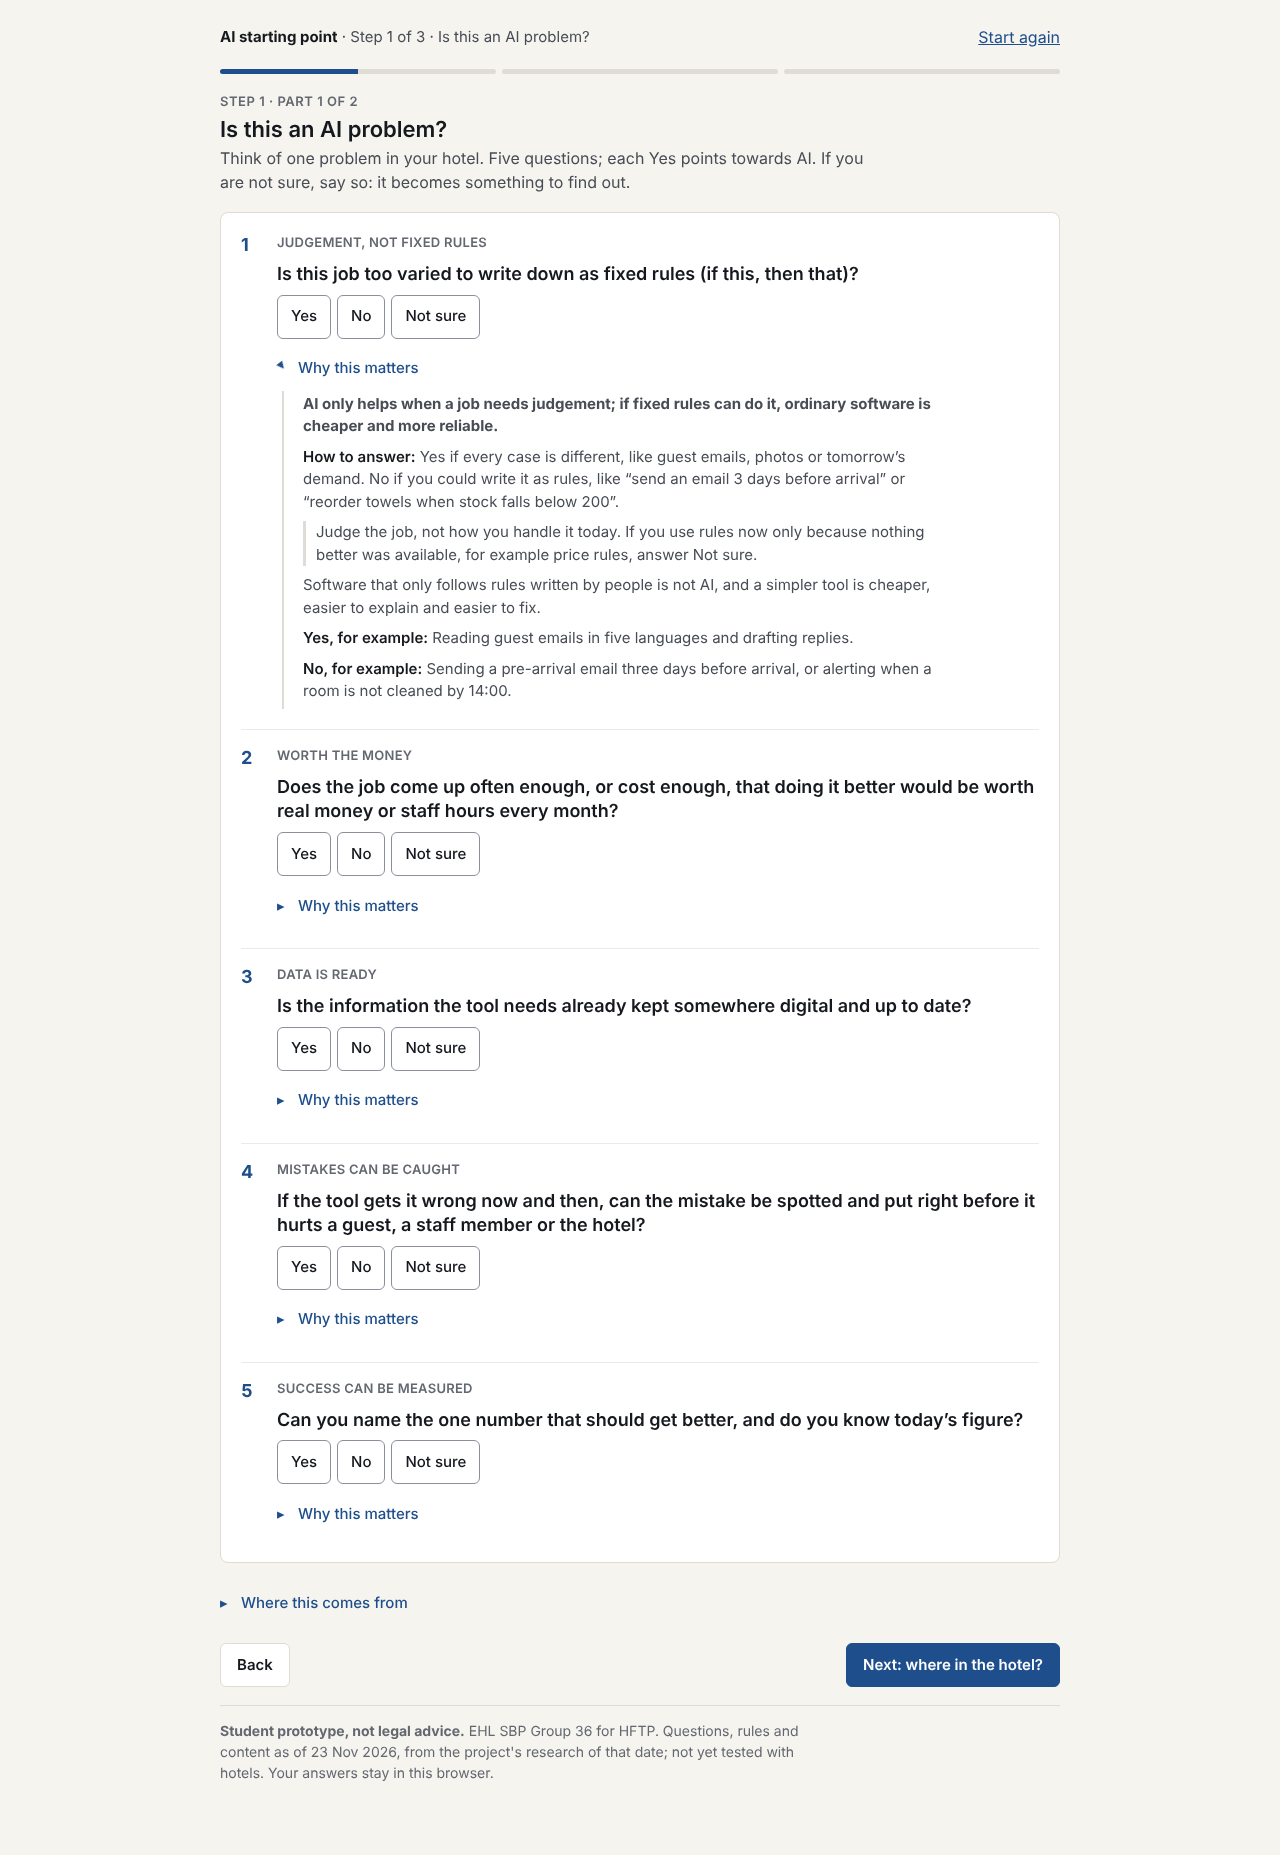
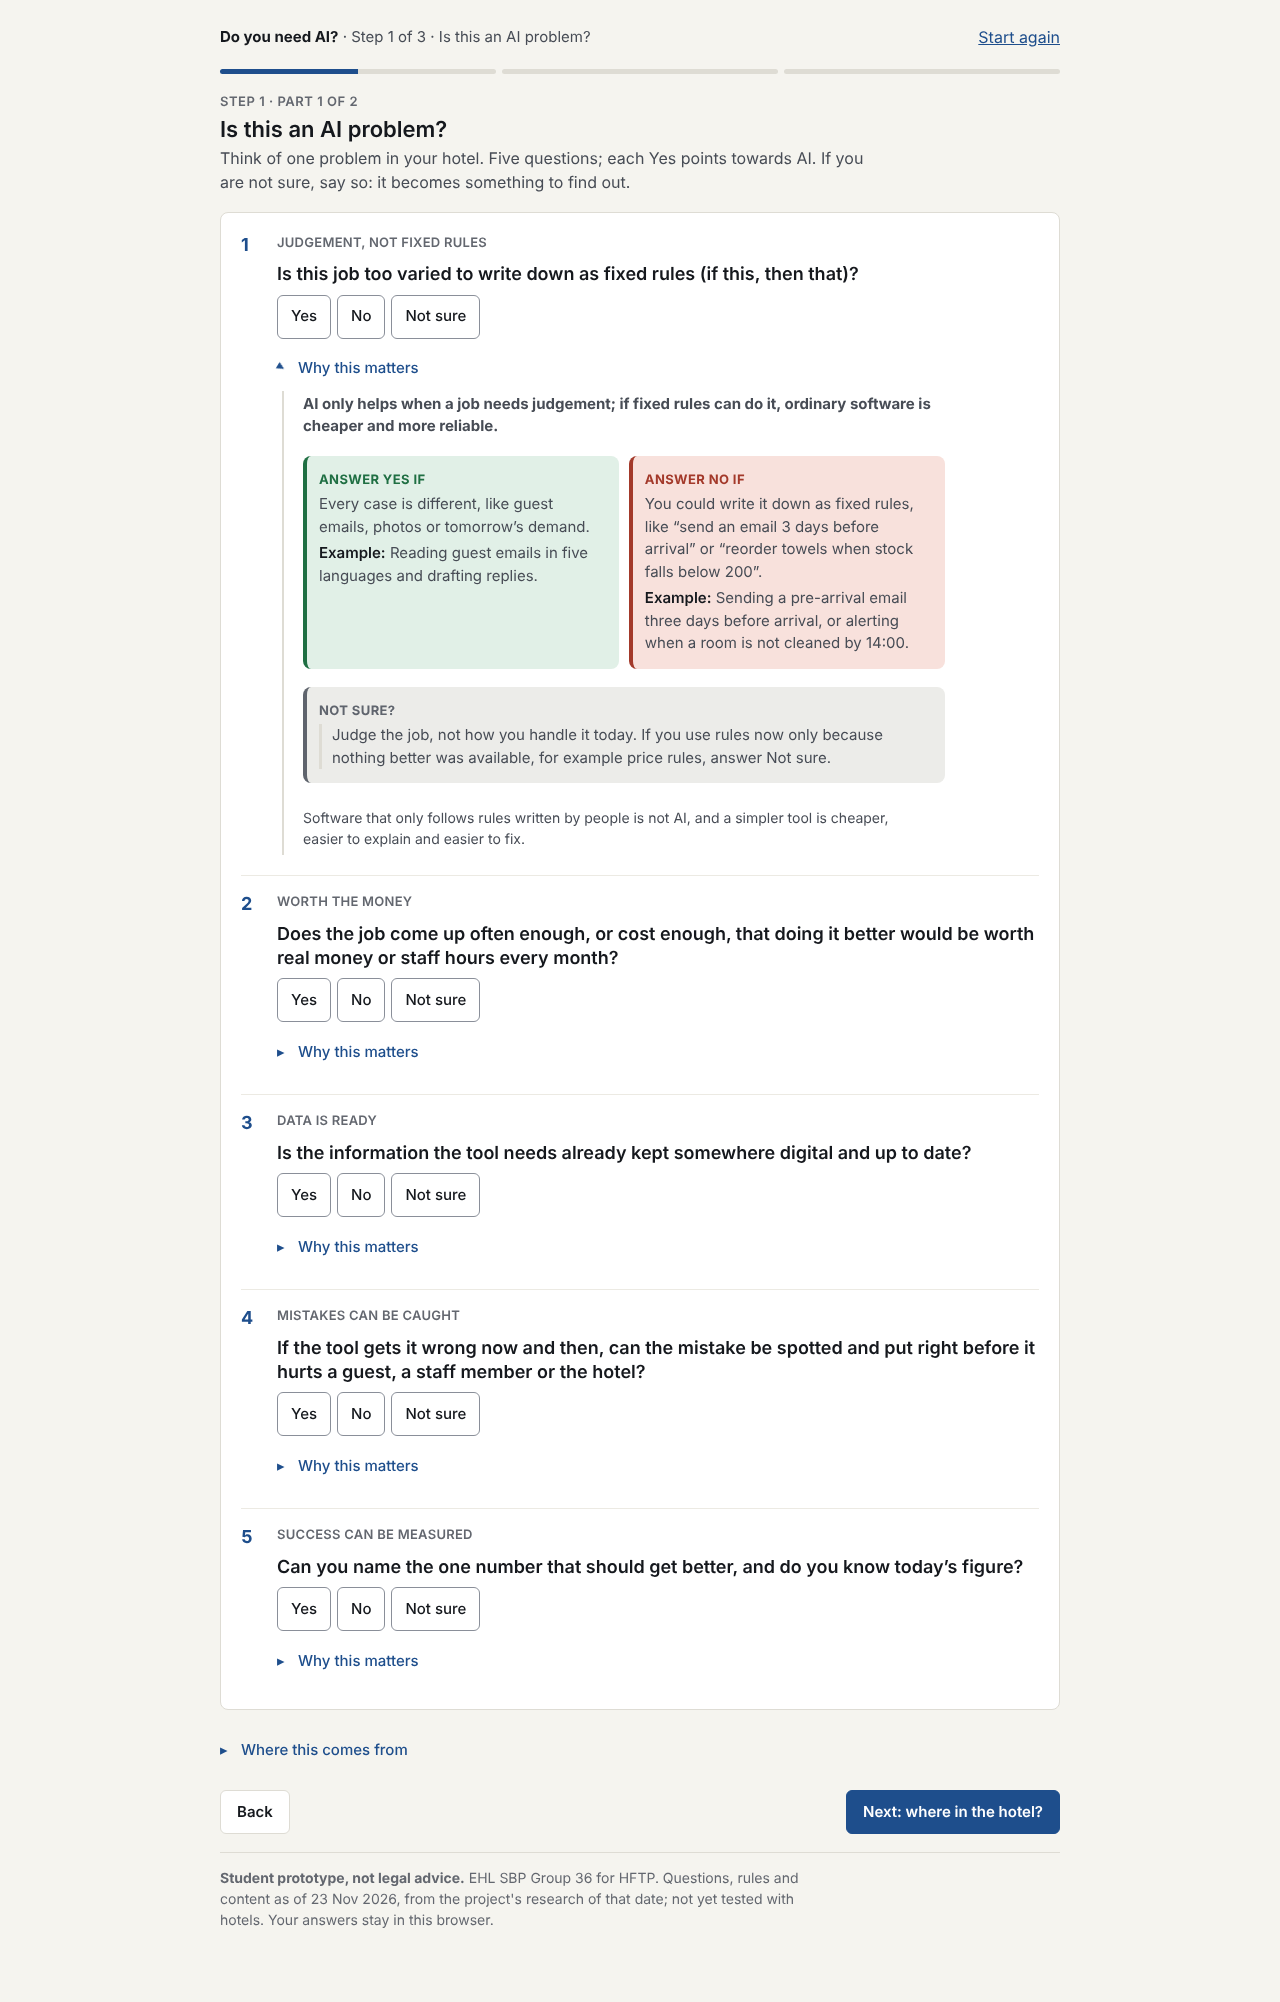
Do you need AI?: 'Why this matters' shows 'Answer Yes if' and 'Answer No if' side by side per question, each with an example, plus a 'Not sure?' box for question 1
Claude-Session: https://claude.ai/code/session_01FfMsQbQQ8DvNf1wGU3HsQR

Changed region(s): [[0.1562, 0.0, 0.8125, 0.8296], [0.1562, 0.8604, 0.625, 0.9833], [0.6562, 0.8604, 0.8438, 0.9218]]

diff --git a/tools/readiness-2/index.html b/tools/readiness-2/index.html
@@ -224,6 +224,20 @@ details.more[open] > summary::before{transform:rotate(90deg)}
 .intro ul.tight{margin:6px 0 8px;padding-left:1.2em}
 .intro ul.tight li{margin:4px 0}
 .panel.intro+.panel.intro{margin-top:12px}
+/* Why this matters: Yes and No side by side (owner, 23 Nov 2026) */
+.yn{display:grid;grid-template-columns:1fr 1fr;gap:10px;margin:10px 0}
+@media (max-width:560px){.yn{grid-template-columns:1fr}}
+.yn-box{border-radius:8px;padding:10px 12px;border-left:4px solid}
+.yn-box p{margin:4px 0}
+.yn-yes{background:var(--hi-s);border-color:var(--hi)}
+.yn-no{background:var(--lo-s);border-color:var(--lo)}
+.yn-head{font-weight:700;font-size:.8125rem;letter-spacing:.03em;text-transform:uppercase;margin:0 0 4px}
+.yn-yes .yn-head{color:var(--hi)}.yn-no .yn-head{color:var(--lo)}
+.yn-ex{font-size:.9375rem;color:var(--ink2)}
+.yn-unsure{background:var(--na-s);border-left:4px solid var(--na);border-radius:8px;padding:10px 12px;margin:0 0 10px}
+.yn-unsure .yn-head{color:var(--na)}
+.yn-unsure p{margin:4px 0}
+.yn-more{margin-top:6px}
 
 </style>
 </head>
@@ -651,7 +665,7 @@ function(t){t.__bidiEngine__=t.prototype.__bidiEngine__=function(t){var r,n,i,a,
 
   /* ---------- Step 1a: is this an AI problem? (research A) ---------- */
   var QUESTIONS = [
-    { id: 'q1', short: 'Needs judgement, not fixed rules', title: 'Judgement, not fixed rules',
+    { id: 'q1', short: 'Needs judgement, not fixed rules', title: 'Judgement, not fixed rules', yesIf: 'Every case is different, like guest emails, photos or tomorrow’s demand.', noIf: 'You could write it down as fixed rules, like “send an email 3 days before arrival” or “reorder towels when stock falls below 200”.',
       q: 'Is this job too varied to write down as fixed rules (if this, then that)?',
       hint: 'Yes if every case is different, like guest emails, photos or tomorrow’s demand. No if you could write it as rules, like “send an email 3 days before arrival” or “reorder towels when stock falls below 200”.',
       guard: 'Judge the job, not how you handle it today. If you use rules now only because nothing better was available, for example price rules, answer Not sure.', // v1.2, council BUILD NOW 1
@@ -661,7 +675,7 @@ function(t){t.__bidiEngine__=t.prototype.__bidiEngine__=function(t){var r,n,i,a,
       no: 'Sending a pre-arrival email three days before arrival, or alerting when a room is not cleaned by 14:00.',
       outcome: 'Not suitable for AI: rules or ordinary automation will do it.', // v1.2 (owner B2): was "Not an AI problem: …"
       who: 'the vendor or IT' },
-    { id: 'q2', short: 'Worth real money or hours', title: 'Worth the money',
+    { id: 'q2', short: 'Worth real money or hours', title: 'Worth the money', yesIf: 'It happens often or costs a lot: many cases a week, or real staff hours or revenue at stake.', noIf: 'It is rare or small, so doing it better would save little.',
       q: 'Does the job come up often enough, or cost enough, that doing it better would be worth real money or staff hours every month?',
       hint: '',
       whyShort: 'AI costs money to set up, run and check, so a rare or small job will not pay that back.', // v1.3 (owner): the first line of the "Why this matters" fold (`short` is already the to-find-out label)
@@ -670,7 +684,7 @@ function(t){t.__bidiEngine__=t.prototype.__bidiEngine__=function(t){var r,n,i,a,
       no: 'A 12-room guesthouse with 10 email enquiries a week.',
       outcome: 'Probably not worth it.', add: 'Look again if the volume grows, or if a tool you already pay for adds it.',
       who: 'the GM or finance' },
-    { id: 'q3', short: 'Information is digital and current', title: 'Data is ready',
+    { id: 'q3', short: 'Information is digital and current', title: 'Data is ready', yesIf: 'The facts it needs are digital, in one place and kept up to date, such as bookings, past guest messages, rates or menus.', noIf: 'The facts are on paper, in one person’s head, or spread over systems that disagree.',
       q: 'Is the information the tool needs already kept somewhere digital and up to date?',
       hint: 'Examples: bookings, past guest messages, rates, your hotel’s facts and menus.',
       whyShort: 'AI works from your data; if it is missing or out of date, the tool gives confident wrong answers.', // v1.3 (owner): the first line of the "Why this matters" fold (`short` is already the to-find-out label)
@@ -679,7 +693,7 @@ function(t){t.__bidiEngine__=t.prototype.__bidiEngine__=function(t){var r,n,i,a,
       no: 'Allergen information only in the chef’s binder.',
       outcome: 'Fix the data first.', add: 'Put the facts in one place and name who keeps them right. Then ask again.',
       who: 'IT or the department head' },
-    { id: 'q4', short: 'Mistakes can be caught', title: 'Mistakes can be caught',
+    { id: 'q4', short: 'Mistakes can be caught', title: 'Mistakes can be caught', yesIf: 'A person can check the result before it counts, or a mistake is easy to put right.', noIf: 'A mistake would reach a guest or staff member straight away and could hurt them.',
       q: 'If the tool gets it wrong now and then, can the mistake be spotted and put right before it hurts a guest, a staff member or the hotel?',
       hint: '',
       whyShort: 'AI is never right every time, so you need a way to catch mistakes before they hurt anyone.', // v1.3 (owner): the first line of the "Why this matters" fold (`short` is already the to-find-out label)
@@ -689,7 +703,7 @@ function(t){t.__bidiEngine__=t.prototype.__bidiEngine__=function(t){var r,n,i,a,
       outcome: 'AI as an assistant only: a person checks every result before it counts.',
       add: 'If the use touches safety, health or people’s rights (hiring, staff evaluation), check the AI Act guide tab: it may be high-risk.',
       who: 'the department head' },
-    { id: 'q5', short: 'Success has a number', title: 'Success can be measured',
+    { id: 'q5', short: 'Success has a number', title: 'Success can be measured', yesIf: 'You can name one number and know today’s figure, such as reply time, hours spent or revenue per room.', noIf: 'You only have a general aim, like “be more innovative”.',
       q: 'Can you name the one number that should get better, and do you know today’s figure?',
       hint: 'Examples: reply time, hours spent, revenue per room, kilos of food thrown away.',
       whyShort: 'Without today’s figure you cannot tell later whether the tool worked, so keeping it becomes guesswork.', // v1.3 (owner): the first line of the "Why this matters" fold (`short` is already the to-find-out label)
@@ -1734,9 +1748,11 @@ function(t){t.__bidiEngine__=t.prototype.__bidiEngine__=function(t){var r,n,i,a,
         radios(q.id, C.Q_ANSWERS, rec.Q[q.id]) + needLine(q.id) +
         /* Owner, 23 Nov 2026: a title per question; the grey explanation and the guard note sit in the fold. */
         fold('why-' + q.id, 'Why this matters', '<p class="whyshort" id="whyshort-' + q.id + '"><strong>' + esc(q.whyShort) + '</strong></p>' +
-          (q.hint ? '<p><b>How to answer:</b> ' + esc(q.hint) + '</p>' : '') +
-          (q.guard ? '<p class="qguard" id="guard-' + q.id + '">' + esc(q.guard) + '</p>' : '') +
-          '<p>' + esc(q.why) + '</p><p><b>Yes, for example:</b> ' + esc(q.yes) + '</p><p><b>No, for example:</b> ' + esc(q.no) + '</p>') +
+          /* Owner, 23 Nov 2026: Yes and No side by side, so the difference is seen at once. */
+          '<div class="yn"><div class="yn-box yn-yes" id="yes-' + q.id + '"><p class="yn-head">Answer Yes if</p><p>' + esc(q.yesIf) + '</p><p class="yn-ex"><b>Example:</b> ' + esc(q.yes) + '</p></div>' +
+          '<div class="yn-box yn-no" id="no-' + q.id + '"><p class="yn-head">Answer No if</p><p>' + esc(q.noIf) + '</p><p class="yn-ex"><b>Example:</b> ' + esc(q.no) + '</p></div></div>' +
+          (q.guard ? '<div class="yn-unsure"><p class="yn-head">Not sure?</p><p id="guard-' + q.id + '">' + esc(q.guard) + '</p></div>' : '') +
+          '<p class="meta yn-more">' + esc(q.why) + '</p>') +
         '</div></div></fieldset>';
     }).join('') + '</section>';
     if (v.key === 'stop') h += '<section class="verdict v-stop" id="verdict" data-verdict="stop"><p class="vsent">Question 1 is No.</p><p>Press “See the result”: there is no need to answer the rest.</p></section>';

diff --git a/tools/readiness-2/src/content.js b/tools/readiness-2/src/content.js
@@ -9,7 +9,7 @@
 
   /* ---------- Step 1a: is this an AI problem? (research A) ---------- */
   var QUESTIONS = [
-    { id: 'q1', short: 'Needs judgement, not fixed rules', title: 'Judgement, not fixed rules',
+    { id: 'q1', short: 'Needs judgement, not fixed rules', title: 'Judgement, not fixed rules', yesIf: 'Every case is different, like guest emails, photos or tomorrow’s demand.', noIf: 'You could write it down as fixed rules, like “send an email 3 days before arrival” or “reorder towels when stock falls below 200”.',
       q: 'Is this job too varied to write down as fixed rules (if this, then that)?',
       hint: 'Yes if every case is different, like guest emails, photos or tomorrow’s demand. No if you could write it as rules, like “send an email 3 days before arrival” or “reorder towels when stock falls below 200”.',
       guard: 'Judge the job, not how you handle it today. If you use rules now only because nothing better was available, for example price rules, answer Not sure.', // v1.2, council BUILD NOW 1
@@ -19,7 +19,7 @@
       no: 'Sending a pre-arrival email three days before arrival, or alerting when a room is not cleaned by 14:00.',
       outcome: 'Not suitable for AI: rules or ordinary automation will do it.', // v1.2 (owner B2): was "Not an AI problem: …"
       who: 'the vendor or IT' },
-    { id: 'q2', short: 'Worth real money or hours', title: 'Worth the money',
+    { id: 'q2', short: 'Worth real money or hours', title: 'Worth the money', yesIf: 'It happens often or costs a lot: many cases a week, or real staff hours or revenue at stake.', noIf: 'It is rare or small, so doing it better would save little.',
       q: 'Does the job come up often enough, or cost enough, that doing it better would be worth real money or staff hours every month?',
       hint: '',
       whyShort: 'AI costs money to set up, run and check, so a rare or small job will not pay that back.', // v1.3 (owner): the first line of the "Why this matters" fold (`short` is already the to-find-out label)
@@ -28,7 +28,7 @@
       no: 'A 12-room guesthouse with 10 email enquiries a week.',
       outcome: 'Probably not worth it.', add: 'Look again if the volume grows, or if a tool you already pay for adds it.',
       who: 'the GM or finance' },
-    { id: 'q3', short: 'Information is digital and current', title: 'Data is ready',
+    { id: 'q3', short: 'Information is digital and current', title: 'Data is ready', yesIf: 'The facts it needs are digital, in one place and kept up to date, such as bookings, past guest messages, rates or menus.', noIf: 'The facts are on paper, in one person’s head, or spread over systems that disagree.',
       q: 'Is the information the tool needs already kept somewhere digital and up to date?',
       hint: 'Examples: bookings, past guest messages, rates, your hotel’s facts and menus.',
       whyShort: 'AI works from your data; if it is missing or out of date, the tool gives confident wrong answers.', // v1.3 (owner): the first line of the "Why this matters" fold (`short` is already the to-find-out label)
@@ -37,7 +37,7 @@
       no: 'Allergen information only in the chef’s binder.',
       outcome: 'Fix the data first.', add: 'Put the facts in one place and name who keeps them right. Then ask again.',
       who: 'IT or the department head' },
-    { id: 'q4', short: 'Mistakes can be caught', title: 'Mistakes can be caught',
+    { id: 'q4', short: 'Mistakes can be caught', title: 'Mistakes can be caught', yesIf: 'A person can check the result before it counts, or a mistake is easy to put right.', noIf: 'A mistake would reach a guest or staff member straight away and could hurt them.',
       q: 'If the tool gets it wrong now and then, can the mistake be spotted and put right before it hurts a guest, a staff member or the hotel?',
       hint: '',
       whyShort: 'AI is never right every time, so you need a way to catch mistakes before they hurt anyone.', // v1.3 (owner): the first line of the "Why this matters" fold (`short` is already the to-find-out label)
@@ -47,7 +47,7 @@
       outcome: 'AI as an assistant only: a person checks every result before it counts.',
       add: 'If the use touches safety, health or people’s rights (hiring, staff evaluation), check the AI Act guide tab: it may be high-risk.',
       who: 'the department head' },
-    { id: 'q5', short: 'Success has a number', title: 'Success can be measured',
+    { id: 'q5', short: 'Success has a number', title: 'Success can be measured', yesIf: 'You can name one number and know today’s figure, such as reply time, hours spent or revenue per room.', noIf: 'You only have a general aim, like “be more innovative”.',
       q: 'Can you name the one number that should get better, and do you know today’s figure?',
       hint: 'Examples: reply time, hours spent, revenue per room, kilos of food thrown away.',
       whyShort: 'Without today’s figure you cannot tell later whether the tool worked, so keeping it becomes guesswork.', // v1.3 (owner): the first line of the "Why this matters" fold (`short` is already the to-find-out label)

diff --git a/tools/readiness-2/src/app.js b/tools/readiness-2/src/app.js
@@ -209,9 +209,11 @@
         radios(q.id, C.Q_ANSWERS, rec.Q[q.id]) + needLine(q.id) +
         /* Owner, 23 Nov 2026: a title per question; the grey explanation and the guard note sit in the fold. */
         fold('why-' + q.id, 'Why this matters', '<p class="whyshort" id="whyshort-' + q.id + '"><strong>' + esc(q.whyShort) + '</strong></p>' +
-          (q.hint ? '<p><b>How to answer:</b> ' + esc(q.hint) + '</p>' : '') +
-          (q.guard ? '<p class="qguard" id="guard-' + q.id + '">' + esc(q.guard) + '</p>' : '') +
-          '<p>' + esc(q.why) + '</p><p><b>Yes, for example:</b> ' + esc(q.yes) + '</p><p><b>No, for example:</b> ' + esc(q.no) + '</p>') +
+          /* Owner, 23 Nov 2026: Yes and No side by side, so the difference is seen at once. */
+          '<div class="yn"><div class="yn-box yn-yes" id="yes-' + q.id + '"><p class="yn-head">Answer Yes if</p><p>' + esc(q.yesIf) + '</p><p class="yn-ex"><b>Example:</b> ' + esc(q.yes) + '</p></div>' +
+          '<div class="yn-box yn-no" id="no-' + q.id + '"><p class="yn-head">Answer No if</p><p>' + esc(q.noIf) + '</p><p class="yn-ex"><b>Example:</b> ' + esc(q.no) + '</p></div></div>' +
+          (q.guard ? '<div class="yn-unsure"><p class="yn-head">Not sure?</p><p id="guard-' + q.id + '">' + esc(q.guard) + '</p></div>' : '') +
+          '<p class="meta yn-more">' + esc(q.why) + '</p>') +
         '</div></div></fieldset>';
     }).join('') + '</section>';
     if (v.key === 'stop') h += '<section class="verdict v-stop" id="verdict" data-verdict="stop"><p class="vsent">Question 1 is No.</p><p>Press “See the result”: there is no need to answer the rest.</p></section>';

diff --git a/tools/readiness-2/src/style.css b/tools/readiness-2/src/style.css
@@ -213,3 +213,17 @@ details.more[open] > summary::before{transform:rotate(90deg)}
 .intro ul.tight{margin:6px 0 8px;padding-left:1.2em}
 .intro ul.tight li{margin:4px 0}
 .panel.intro+.panel.intro{margin-top:12px}
+/* Why this matters: Yes and No side by side (owner, 23 Nov 2026) */
+.yn{display:grid;grid-template-columns:1fr 1fr;gap:10px;margin:10px 0}
+@media (max-width:560px){.yn{grid-template-columns:1fr}}
+.yn-box{border-radius:8px;padding:10px 12px;border-left:4px solid}
+.yn-box p{margin:4px 0}
+.yn-yes{background:var(--hi-s);border-color:var(--hi)}
+.yn-no{background:var(--lo-s);border-color:var(--lo)}
+.yn-head{font-weight:700;font-size:.8125rem;letter-spacing:.03em;text-transform:uppercase;margin:0 0 4px}
+.yn-yes .yn-head{color:var(--hi)}.yn-no .yn-head{color:var(--lo)}
+.yn-ex{font-size:.9375rem;color:var(--ink2)}
+.yn-unsure{background:var(--na-s);border-left:4px solid var(--na);border-radius:8px;padding:10px 12px;margin:0 0 10px}
+.yn-unsure .yn-head{color:var(--na)}
+.yn-unsure p{margin:4px 0}
+.yn-more{margin-top:6px}
